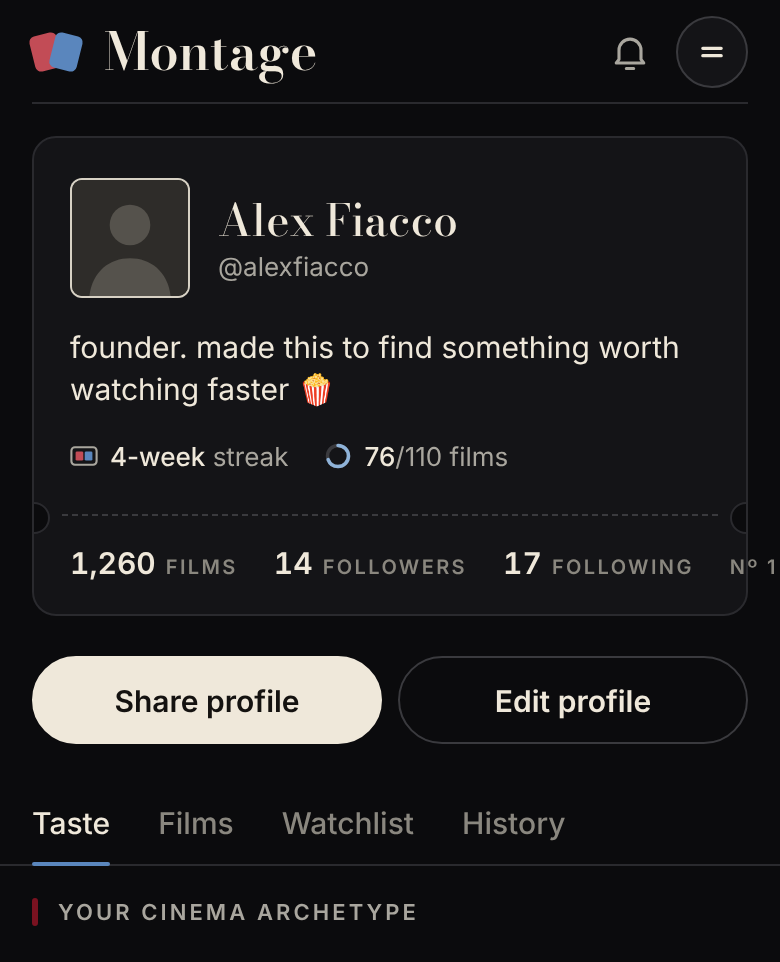
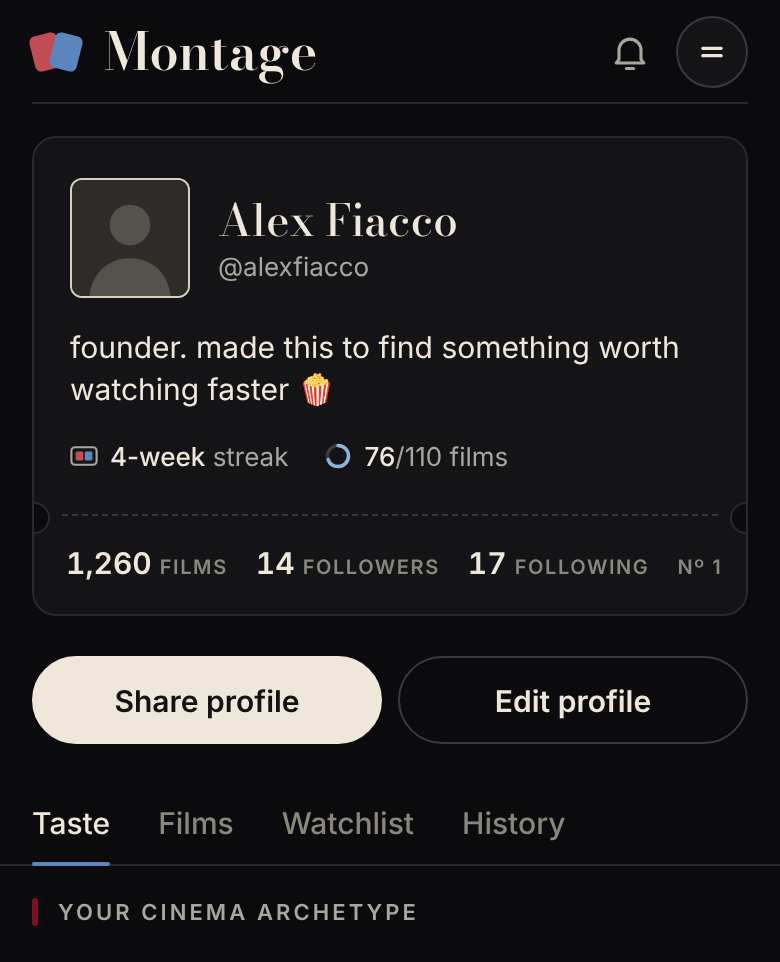
Mock: profile header v7, C and A fused three ways (stub below, side stub, ticket line)
Tightens the ticket-line stub so Nº fits at 390, and notes the fit limit.

Claude-Session: https://claude.ai/code/session_013WRDCFXH8nihP92apJAVW7

Changed region(s): [[0.3385, 0.5613, 0.9538, 0.6237], [0.0923, 0.5613, 0.3077, 0.6237], [0.9846, 0.5613, 1.0, 0.5925]]

diff --git a/mockups/journeys/profile-header-v7.html b/mockups/journeys/profile-header-v7.html
@@ -161,7 +161,7 @@
   <div><div class="cap">Yours</div><div class="ph d3" data-shot="3-own"><div class="appbar"><span class="wm"><span class="logo"><i></i><i></i></span>Montage</span><span class="r"><svg><use href="#bell"/></svg><span class="icirc"><svg><use href="#menu"/></svg></span></span></div><div class="wrap"><div class="qc"><div class="qc-top"><div class="id"><div class="face"><svg><use href="#person"/></svg></div><div class="nmw"><div class="nm">Alex Fiacco</div><div class="hd">@alexfiacco</div></div></div><div class="bio">founder. made this to find something worth watching faster 🍿</div><div class="facts"><span><svg><use href="#strip"/></svg><span><b>4-week</b> streak</span></span><span><svg><use href="#ring"/></svg><span><b>76</b>/110 films</span></span></div></div><div class="perf"></div><div class="stub"><span><b class="num">1,260</b><i class="sc">Films</i></span><span><b class="num">14</b><i class="sc">Followers</i></span><span><b class="num">17</b><i class="sc">Following</i></span><span class="sc no">Nº 1</span></div></div><div class="acts"><span class="b fill grow">Share profile</span><span class="b grow">Edit profile</span></div><div class="tabs"><span class="on">Taste</span><span>Films</span><span>Watchlist</span><span>History</span></div><div class="below"><div class="eyebrow">Your cinema archetype</div></div></div></div></div>
   <div><div class="cap">Someone else</div><div class="ph d3" data-shot="3-other"><div class="appbar"><span class="wm"><span class="logo"><i></i><i></i></span>Montage</span><span class="r"><svg><use href="#bell"/></svg></span></div><div class="wrap" style="padding:0"><div class="navrow" style="margin:8px 16px 0"><span class="icirc"><svg><use href="#back"/></svg></span><span class="icirc"><svg><use href="#more"/></svg></span></div></div><div class="wrap"><div class="qc"><div class="qc-top"><div class="id"><div class="face j">J</div><div class="nmw"><div class="nm">Jacob Fiacco</div><div class="hd">@jacobfiacco</div></div></div><div class="facts"><span><svg><use href="#strip"/></svg><span><b>2-week</b> streak</span></span><span><svg><use href="#ring"/></svg><span><b>41</b>/60 films</span></span></div></div><div class="perf"></div><div class="stub"><span><b class="num">677</b><i class="sc">Films</i></span><span><b class="num">3</b><i class="sc">Followers</i></span><span><b class="num">2</b><i class="sc">Following</i></span><span class="sc no">Nº 2</span></div></div><div class="acts"><span class="b fill grow">Follow</span><span class="b grow"><svg><use href="#share"/></svg>Share</span></div><div class="blend"><span class="pc">95%</span><span class="tx">Blend with you</span><span class="go">›</span></div><div class="tabs"><span class="on">Taste</span><span>Films</span><span>History</span></div><div class="below"><div class="eyebrow">Jacob&#39;s cinema archetype</div></div></div></div></div>
 </div>
-<div class="notes"><ul><li><b>Least to read:</b> the top is just photo, name, handle, bio, streak and goal; the stub is one line.</li><li>Nº 1 reads most like a real ticket serial here. Numbers are less scannable than stacked ones.</li></ul></div>
+<div class="notes"><ul><li><b>Least to read:</b> the top is just photo, name, handle, bio, streak and goal; the stub is one line.</li><li>Nº 1 reads most like a real ticket serial here. Numbers are less scannable than stacked ones, and the row is tight: 1,260 + 14 + 17 + Nº 1 fills 356pt, so a 5-digit count or a two-digit follow count would need Nº dropped or the labels shortened.</li></ul></div>
 </section>
 <section class="sect"><div class="decide"><h3>Decide</h3><ol>
   <li><b>1 · Stub below</b> (recommended): C&#39;s card, A&#39;s labelled numbers in a slim stub under one perforation, Nº beside the name.</li>
